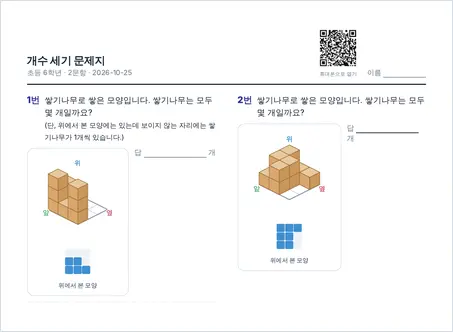
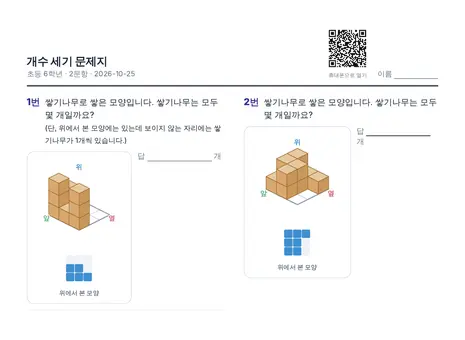
문제지가 칸 폭을 꽉 채운다 — 칸을 고정 높이에서 종이 비율로
"pdf 너비를 이미지 너비에 full 로". 종이가 칸 폭을 채우려면 높이를 폭이 정해야 해서,
`.pfig` 를 고정 높이(128px) 대신 **종이 비율**(`aspect-ratio:465/340`)로 바꿨다.
세 칸이 같은 비율이라 폭이 변해도 함께 줄고 늘어 글 줄이 어긋나지 않는다.
사진 칸(`.ph`)만 여백 0 이라 칸 테두리가 곧 종이의 테두리다.

데스크톱 문항 하나 30×17 → 140×100px. 이미지도 테두리 없이 다시 뽑았다(465×340, 7.9KB).

고친 함정 셋:
- 그림을 흐름에 두면 제 크기로 칸을 밀어 aspect-ratio 가 무시된다 — 고유 크기가 없는
  SVG 가 300×150 으로 퍼져 칸마다 높이가 달라졌다. 그래서 칸 안에 절대배치한다.
- 대체 요소는 `inset` 만으로 늘어나지 않는다(폭·높이가 auto 면 고유 크기). 칸 밖으로
  잘려 나가서, `width/height:calc(100% - 18px)` 로 두 치수를 명시했다.
- ≤360px 에서 `.pillar{align-items:stretch}` 를 명시해야 한다 — ≤860 의 `align-items:start`
  가 내려와 그림 칸이 폭 3px 로 주저앉았다.

문서 높이 1280 +113 · 390 +96 · 320 +270. 320px 까지 넘침 0. check-drift.py 통과.

Claude-Session: https://claude.ai/code/session_01Y7b7BwKHoQDVj3nYqbYCXn

diff --git a/index.html b/index.html
@@ -197,15 +197,22 @@
    세 장이 같은 모양(히어로 CELLS 10개)을 쌓고·묻고·인쇄하는 순서라, 세 칸이 한 줄기로 읽힌다.
    ⚠ 렌더러 SVG 는 고유 폭이 없다 — 높이를 주고 폭을 auto 로 둬야 찌그러지지 않는다
       (/quiz 카드 `.qthumb` 와 같은 함정). */
-.pfig{height:128px;margin:0 0 15px;border-radius:12px;background:#f7f9fc;border:1px solid #eef2f7;
-  display:flex;align-items:center;justify-content:center;padding:9px}
-/* ⚠ `>` 가 중요하다 — 문제지 모형 안에 겨냥도 4장이 **중첩 svg** 로 들어 있어서,
-     자손 선택자로 쓰면 그 넷까지 height:100% 가 되어 칸 밖으로 튀어나간다. */
-.pfig > svg{display:block;height:100%;width:auto;max-width:100%}
-/* ⚠ 사진은 `height:100%` 로 두면 안 된다 — 가로로 긴 문제지가 좁은 칸(모바일)에서
-   `max-width` 에 걸리는 순간 높이만 100% 로 남아 **찌그러진다**(390px 에서 94×94 로 눌렸다).
-   최대치 둘만 주고 치수는 비율대로 맡긴다. */
-.pfig > img{display:block;width:100%;height:100%;object-fit:contain}
+/* 칸은 **종이의 비율**을 그대로 가진다(453:332) — 문제지가 칸 폭을 꽉 채우도록.
+   고정 높이가 아니라 비율이라 폭이 변해도 세 칸이 같은 모양으로 같이 줄고 늘어
+   글 줄이 어긋나지 않는다(`.pillar .n` 의 min-height 와 같은 목적). */
+.pfig{position:relative;aspect-ratio:465/340;margin:0 0 15px;border-radius:12px;
+  background:#f7f9fc;border:1px solid #eef2f7;overflow:hidden}
+/* 그림은 칸 안에 **절대배치**한다 — 흐름에 두면 제 크기로 칸을 밀어
+   `aspect-ratio` 가 무시된다(고유 크기가 없는 SVG 가 300×150 으로 퍼져 칸이 세로로
+   늘어나고 세 칸의 글 줄이 어긋났다). 칸이 비율을 정하고 그림은 그 안을 채운다.
+   ⚠ `>` 는 그대로 중요하다 — 문제지 모형 시절의 중첩 svg 함정은 사라졌지만,
+   겨냥도 안에 들어갈 수 있는 자식까지 잡으면 같은 사고가 난다. */
+/* ⚠ 대체 요소(svg·img)는 `inset` 만으로 **늘어나지 않는다** — 폭·높이가 auto 면
+   고유 크기로 그려져 칸 밖으로 잘렸다. 두 치수를 명시하고 비율은 preserveAspectRatio 가 지킨다. */
+.pfig > svg{position:absolute;top:9px;left:9px;width:calc(100% - 18px);height:calc(100% - 18px)}
+/* 사진 칸만 여백이 없다 — 문제지가 칸 폭을 꽉 채우고, 칸 테두리가 곲 종이의 테두리다. */
+.pfig.ph{background:#fff;border-color:#d7dee8}
+.pfig.ph > img{position:absolute;inset:0;display:block;width:100%;height:100%;object-fit:cover}
 /* 세 칸의 제목 줄을 맞추려고 최소 높이를 준다 — 문구 길이가 제각각이라 안 주면 어긋난다. */
 .pillar .n{font-size:20px;font-weight:800;letter-spacing:-.03em;color:#2d2d95;
   display:block;line-height:1.32;min-height:2.64em}
@@ -401,7 +408,8 @@
   /* 한 단으로 내려오면 그림 세 장이 세로로 312px 를 더 먹는다 — 칸을 가로로 접어
      그림을 왼쪽에 세운다(모바일 면적은 작업판과 같은 이유로 아낀다). */
   .pillar{display:grid;grid-template-columns:110px 1fr;column-gap:14px;align-items:start}
-  .pfig{grid-row:1/4;grid-column:1;height:110px;margin:3px 0 0;padding:7px}
+  .pfig{grid-row:1/4;grid-column:1;margin:3px 0 0}
+  .pfig > svg{top:7px;left:7px;width:calc(100% - 14px);height:calc(100% - 14px)}
   .pillar .n{grid-column:2;min-height:0}
   .pillar h3{grid-column:2}
   .pillar p{grid-column:2}
@@ -432,8 +440,10 @@
   .q figcaption .qd{-webkit-line-clamp:4;min-height:6.64em}
   /* 320px 급 — 가로로 접으면 글 칸이 116px(한 줄 6~8자)라 읽기가 나빠진다. 그림을 다시
      위로 올리되 높이를 84px 로 낮춘다(세로 세 장 = +288px 로, 가로 배치와 높이는 거의 같다). */
-  .pillar{display:flex;flex-direction:column}
-  .pfig{height:96px;margin:0 0 12px}
+  /* ⚠ `align-items:start` 가 위 860 블록에서 내려오므로 **명시적으로 되돌린다** —
+     안 하면 그림 칸이 늘어나지 않아 폭 3px 로 주저앉는다(비율만 있고 내용이 절대배치라). */
+  .pillar{display:flex;flex-direction:column;align-items:stretch}
+  .pfig{margin:0 0 12px}
 }
 @media (max-width:560px){
   /* 요일 칸이 35px 라 '10문항'(48px)이 안 들어간다 — 단위만 접는다(숫자는 남는다) */
@@ -597,7 +607,7 @@
         <p><b>학년·유형·난이도를 직접 골라</b> 풉니다. 돌려 보며 푸는 <b>3D 문제</b>와 그림만 보고 푸는 <b>2D 문제</b>가 함께 있어, 아이가 약한 곳만 집중해 연습시킬 수 있어요.</p>
       </div>
       <div class="pillar">
-        <div class="pfig"><img src="assets/img/landing-worksheet.webp" width="453" height="332" loading="lazy" decoding="async" alt="실제로 인쇄되는 문제지 — 문항 두 개와 겨냥도·답란, 휴대폰으로 여는 QR"></div>
+        <div class="pfig ph"><img src="assets/img/landing-worksheet.webp" width="465" height="340" loading="lazy" decoding="async" alt="실제로 인쇄되는 문제지 — 문항 두 개와 겨냥도·답란, 휴대폰으로 여는 QR"></div>
         <span class="n">종이 문제지로 출력 가능</span>
         <h3><a data-cta="pillar" href="worksheets/">문제지 만들기 <span class="ar" aria-hidden="true">&rarr;</span></a></h3>
         <p><b>지면 시험을 대비합니다.</b> 화면으로 익힌 유형을 그대로 인쇄해 정답까지 확인하고, 함께 인쇄된 QR을 찍으면 그 문제를 <b>3D 입체로 돌려볼</b> 수 있어요.</p>
